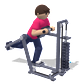
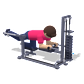
운동기록 프로토타입 v1.39.4 — 글루트 킥백(glute_kb) 3장을 8차(서서 하는 자세)에서 7차(무릎 대고 엎드린 자세, 432bf1b와 동일 파일)로 되돌림: t/glute_kb·z/glute_kb_a·z/glute_kb_b, 나머지 258장 동일 · VER v1.39.4(이미지 캐시키) · 되돌릴 곳 3725fb4

diff --git a/app.js b/app.js
@@ -2,7 +2,7 @@
 /* v1.12 — v1.11(C안 1/4 고객 앱 기록 흐름 전부) + 결정 33: 아이템 경험치는 한도 없음(운동 경험치만 하루 600·주 1,800).
    경험치·레벨·표정·랭킹 계산은 engine.js 한 곳(CFG·sessionXP·capGain·applyXP·judgeIntensity·exprFor·forecastWeek). 이 파일은 화면만 */
 const KEY = 'nijim_workout_proto_v111';
-const VER = 'v1.39.3';
+const VER = 'v1.39.4';
 /* 확정 12종(결정 22~25) — design v13 정본 · 레벨 띠 11컷 · 표정 5종. 12종 모두 처음부터 선택 가능(결정 25) */
 const CH = {
   mungchi:   { name: '뭉치', josa: '가', intro: '느긋하고 솔직한 땀방울 슬라임' },
